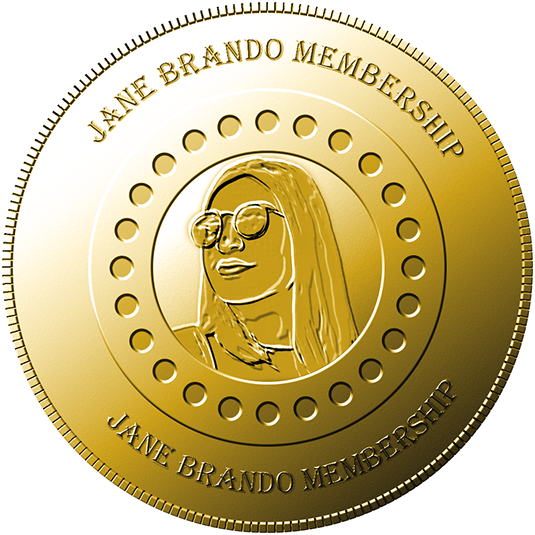
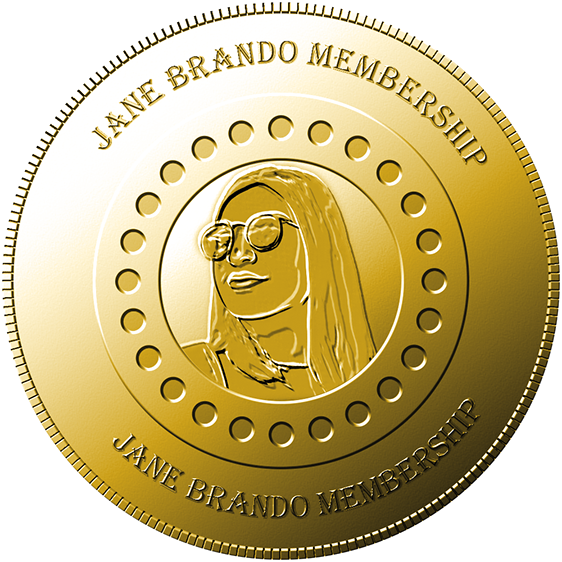
Summary

diff --git a/css/become-the-king_.css b/css/become-the-king_.css
@@ -1,1 +1,1 @@
-.version.become_the_king_{color:#0000F0;background-color:#FE138E;}#muse_css_mq{background-color:#FFFFFF;}#page{z-index:1;min-height:418px;background-image:none;border-width:0px;border-color:#000000;background-color:transparent;padding-top:20px;padding-bottom:62px;width:100%;max-width:960px;margin-left:auto;margin-right:auto;}#u1252-12{z-index:2;display:block;vertical-align:top;position:relative;width:95.84%;margin-left:2.09%;}#pu1278{z-index:68;margin-top:11px;width:75%;margin-left:20%;}#u1278{z-index:68;background-color:transparent;position:relative;margin-right:-10000px;width:81.25%;}#u1328{z-index:70;min-height:41px;border-width:0px;border-color:transparent;background-color:transparent;position:relative;margin-right:-10000px;margin-top:163px;width:13.76%;left:86.25%;}#u1249{z-index:62;background-color:transparent;margin-top:11px;position:relative;width:55.73%;margin-left:22.61%;}#buttonu1253{z-index:64;border-color:#787878;background-color:#FFFFFF;border-radius:10px;margin-top:16px;position:relative;width:95.84%;margin-left:2.09%;}#buttonu1253:hover{background-color:#141414;min-height:0px;width:95.84%;margin:16px 0px 0px 2.083333333333333%;}#buttonu1253.ButtonSelected{background-color:#FFFFFF;min-height:0px;width:95.84%;margin:16px 0px 0px 2.083333333333333%;}#u1254{z-index:66;vertical-align:top;position:relative;margin-right:-10000px;width:100%;}#u1254_states{float:left;width:100%;background:transparent url("../images/u1254_states.png?crc=254682640") no-repeat center;background-size:100%;}#buttonu1253:hover #u1254_states{background:transparent url("../images/u1254_states-r.png?crc=314083275") no-repeat center;background-size:100%;}#u1248-14{z-index:14;display:block;vertical-align:top;margin-top:15px;position:relative;width:95.84%;margin-left:2.09%;}#u1373{z-index:71;background-color:transparent;margin-top:16px;position:relative;width:95.94%;margin-left:2.09%;}#u1380-6{z-index:73;display:block;vertical-align:top;position:relative;width:95.94%;margin-left:1.98%;}#u1412{z-index:79;background-color:transparent;margin-top:22px;position:relative;width:53.34%;margin-left:23.34%;}#u1278_img,#u1249_img,#u1373_img,#u1412_img{width:100%;}#u1422-26{z-index:32;display:block;vertical-align:top;margin-top:22px;position:relative;width:95.84%;margin-left:1.98%;}#buttonu1257{z-index:28;border-color:#787878;background-color:#FFFFFF;border-radius:10px;padding-bottom:6px;margin-top:16px;position:relative;width:95.84%;margin-left:1.98%;}#buttonu1257:hover{background-color:#141414;min-height:0px;width:95.84%;margin:16px 0px 0px 1.9791666666666665%;}#u1258{z-index:30;vertical-align:top;position:relative;margin-right:-10000px;margin-top:7px;width:100%;}#u1258_states{float:left;width:100%;background:transparent url("../images/u1258_states.png?crc=254682640") no-repeat center;background-size:100%;}#u1254_states .fluid_height_spacer,#u1258_states .fluid_height_spacer{padding-bottom:7.82608695652174%;}#buttonu1257:hover #u1258_states{background:transparent url("../images/u1258_states-r.png?crc=314083275") no-repeat center;background-size:100%;}#buttonu1255{z-index:58;border-color:#787878;background-color:#FFFFFF;border-radius:10px;padding-bottom:7px;margin-top:16px;position:relative;width:95.84%;margin-left:1.98%;}#buttonu1255:hover{background-color:#141414;min-height:0px;width:95.84%;margin:16px 0px 0px 1.9791666666666665%;}#buttonu1257.ButtonSelected,#buttonu1255.ButtonSelected{background-color:#FFFFFF;min-height:0px;width:95.84%;margin:16px 0px 0px 1.9791666666666665%;}#u1256{z-index:60;vertical-align:top;position:relative;margin-right:-10000px;margin-top:8px;width:100%;}#u1256_states{float:left;width:100%;background:transparent url("../images/u1256_states.png?crc=3859290508") no-repeat center;background-size:100%;}#u1256_states .fluid_height_spacer{padding-bottom:10.434782608695652%;}#buttonu1255:hover #u1256_states{background:transparent url("../images/u1256_states-r.png?crc=3992161837") no-repeat center;background-size:100%;}.css_verticalspacer .verticalspacer{height:calc(100vh - 6055px);}.html{background-color:#000000;}body{position:relative;min-width:320px;}
+.version.become_the_king_{color:#0000ED;background-color:#7EFA2F;}#muse_css_mq{background-color:#FFFFFF;}#page{z-index:1;min-height:417.64999999999964px;background-image:none;border-width:0px;border-color:#000000;background-color:transparent;padding-top:20px;padding-bottom:62.350000000000364px;width:100%;max-width:960px;margin-left:auto;margin-right:auto;}#u1252-12{z-index:2;display:block;vertical-align:top;position:relative;width:95.84%;margin-left:2.09%;}#pu1278{z-index:68;width:75%;margin-left:20%;}#u1278{z-index:68;background-color:transparent;position:relative;margin-right:-10000px;width:81.25%;}#u1328{z-index:70;min-height:41px;border-width:0px;border-color:transparent;background-color:transparent;position:relative;margin-right:-10000px;margin-top:174px;width:13.76%;left:86.25%;}#u1249{z-index:62;background-color:transparent;margin-top:4px;position:relative;width:58.55%;margin-left:20.73%;}#buttonu1253{z-index:64;border-color:#787878;background-color:#FFFFFF;border-radius:10px;margin-top:11px;position:relative;width:95.84%;margin-left:1.98%;}#buttonu1253:hover{background-color:#141414;min-height:0px;width:95.84%;margin:11px 0px 0px 1.9791666666666665%;}#buttonu1253.ButtonSelected{background-color:#FFFFFF;min-height:0px;width:95.84%;margin:11px 0px 0px 1.9791666666666665%;}#u1254{z-index:66;vertical-align:top;position:relative;margin-right:-10000px;width:100%;}#u1254_states{float:left;width:100%;background:transparent url("../images/u1254_states.png?crc=254682640") no-repeat center;background-size:100%;}#buttonu1253:hover #u1254_states{background:transparent url("../images/u1254_states-r.png?crc=314083275") no-repeat center;background-size:100%;}#u1248-14{z-index:14;display:block;vertical-align:top;margin-top:11px;position:relative;width:95.84%;margin-left:2.09%;}#u1373{z-index:71;background-color:transparent;margin-top:16px;position:relative;width:95.94%;margin-left:2.09%;}#u1380-6{z-index:73;display:block;vertical-align:top;position:relative;width:95.94%;margin-left:1.98%;}#u1412{z-index:79;background-color:transparent;margin-top:14px;position:relative;width:69.07%;margin-left:15.42%;}#u1278_img,#u1249_img,#u1373_img,#u1412_img{width:100%;}#u1422-26{z-index:32;display:block;vertical-align:top;margin-top:14px;position:relative;width:95.84%;margin-left:2.09%;}#buttonu1257{z-index:28;border-color:#787878;background-color:#FFFFFF;border-radius:10px;padding-bottom:6px;margin-top:19px;position:relative;width:95.73%;margin-left:2.09%;}#buttonu1257:hover{background-color:#141414;min-height:0px;width:95.73%;margin:19px 0px 0px 2.083333333333333%;}#u1258{z-index:30;vertical-align:top;position:relative;margin-right:-10000px;margin-top:7px;width:100.11%;}#u1258_states{float:left;width:100%;background:transparent url("../images/u1258_states.png?crc=254682640") no-repeat center;background-size:100%;}#u1254_states .fluid_height_spacer,#u1258_states .fluid_height_spacer{padding-bottom:7.82608695652174%;}#buttonu1257:hover #u1258_states{background:transparent url("../images/u1258_states-r.png?crc=314083275") no-repeat center;background-size:100%;}#buttonu1255{z-index:58;border-color:#787878;background-color:#FFFFFF;border-radius:10px;padding-bottom:7px;margin-top:19px;position:relative;width:95.73%;margin-left:2.09%;}#buttonu1255:hover{background-color:#141414;min-height:0px;width:95.73%;margin:19px 0px 0px 2.083333333333333%;}#buttonu1257.ButtonSelected,#buttonu1255.ButtonSelected{background-color:#FFFFFF;min-height:0px;width:95.73%;margin:19px 0px 0px 2.083333333333333%;}#u1256{z-index:60;vertical-align:top;position:relative;margin-right:-10000px;margin-top:8px;width:100.11%;}#u1256_states{float:left;width:100%;background:transparent url("../images/u1256_states.png?crc=3859290508") no-repeat center;background-size:100%;}#u1256_states .fluid_height_spacer{padding-bottom:10.434782608695652%;}#buttonu1255:hover #u1256_states{background:transparent url("../images/u1256_states-r.png?crc=3992161837") no-repeat center;background-size:100%;}.css_verticalspacer .verticalspacer{height:calc(100vh - 6197px);}.html{background-color:#000000;}body{position:relative;min-width:320px;}

diff --git a/become-the-king!.html b/become-the-king!.html
@@ -17,7 +17,7 @@ if(typeof Muse == "undefined") window.Muse = {}; window.Muse.assets = {"required
   <title>Become the King!</title>
   <!-- CSS -->
   <link rel="stylesheet" type="text/css" href="css/site_global.css?crc=444006867"/>
-  <link rel="stylesheet" type="text/css" href="css/become-the-king_.css?crc=4043182990" id="pagesheet"/>
+  <link rel="stylesheet" type="text/css" href="css/become-the-king_.css?crc=3984521775" id="pagesheet"/>
    </head>
  <body>
 
@@ -50,7 +50,7 @@ src="https://www.facebook.com/tr?id=763399587639667&ev=PageView&noscript=1"
     </div>
    </div>
    <div class="clip_frame colelem" id="u1249"><!-- image -->
-    <img class="block" id="u1249_img" src="images/coin%20maker%20final.png?crc=3971675616" alt="" data-heightwidthratio="1" data-image-width="535" data-image-height="535"/>
+    <img class="block" id="u1249_img" src="images/coin%20maker%20final.png?crc=236308298" alt="" data-heightwidthratio="1" data-image-width="562" data-image-height="562"/>
    </div>
    <div class="pointer_cursor Button rounded-corners clearfix colelem" id="buttonu1253" data-visibility="changed" style="visibility:hidden"><!-- container box -->
     <a class="block" href="https://www.paypal.com/cgi-bin/webscr?cmd=_s-xclick&amp;hosted_button_id=79W8Z6GJQVE2J"><!-- Block link tag --></a>
@@ -62,7 +62,7 @@ src="https://www.facebook.com/tr?id=763399587639667&ev=PageView&noscript=1"
    </div>
    <img class="colelem" id="u1380-6" alt="And every month's new book, you will also get the right to join my Facebook group!" src="images/u1380-6.png?crc=3977861686" data-image-width="921"/><!-- rasterized frame -->
    <div class="clip_frame colelem" id="u1412"><!-- image -->
-    <img class="block" id="u1412_img" src="images/unnamed.png?crc=494952590" alt="" data-heightwidthratio="1" data-image-width="512" data-image-height="512"/>
+    <img class="block" id="u1412_img" src="images/unnamed.png?crc=494952590" alt="" data-heightwidthratio="1" data-image-width="663" data-image-height="663"/>
    </div>
    <img class="colelem" id="u1422-26" alt="In my Facebook group you will get 1. The right to watch the new book plot first I will post some of my new book plot in Facebook group for king member to watch it first and also when book is release I will post article to notice you! Make sure you can watch the new book as soon as possible! 2. The right to watch book Cover and draft first also the right to vote for which cover you want to be the main book cover! I will post the cover draft in the Facebook group and you can vote for the cover draft you like the winner will be the main book cover! 3. The right to watch my postscript I will post article in the Facebook group to let you know how I write the book story or how I feel about the story or the next book's progress some interesting things happen in my life! 4. Chance to meet tons of reader just like you! You can discuss the book content in this group with other reader in the article comment section or something you want to say about the story or something happened in your life. If you want to keep contact with someone, you can message to the one you want to contact then hang out to each other!" src="images/u1422-26.png?crc=277578995" data-image-width="920"/><!-- rasterized frame -->
    <div class="pointer_cursor Button rounded-corners clearfix colelem" id="buttonu1257" data-visibility="changed" style="visibility:hidden"><!-- container box -->
@@ -73,7 +73,7 @@ src="https://www.facebook.com/tr?id=763399587639667&ev=PageView&noscript=1"
     <a class="block" href="https://www.paypal.com/cgi-bin/webscr?cmd=_s-xclick&amp;hosted_button_id=UM3VBLDYZYJME"><!-- Block link tag --></a>
     <a class="nonblock nontext grpelem" id="u1256" href="https://www.paypal.com/cgi-bin/webscr?cmd=_s-xclick&amp;hosted_button_id=UM3VBLDYZYJME"><!-- state-based BG images --><div id="u1256_states"><img alt="No, thanks! I think normal membership is good enough." src="images/blank.gif?crc=4208392903"/><div class="fluid_height_spacer"></div></div></a>
    </div>
-   <div class="verticalspacer" data-offset-top="5995" data-content-above-spacer="5994" data-content-below-spacer="61" data-sizePolicy="fixed" data-pintopage="page_fixedLeft"></div>
+   <div class="verticalspacer" data-offset-top="6136" data-content-above-spacer="6136" data-content-below-spacer="61" data-sizePolicy="fixed" data-pintopage="page_fixedLeft"></div>
   </div>
   <div class="preload_images">
    <img class="preload" src="images/u1254_states-r.png?crc=314083275" alt=""/>

diff --git a/the-special-offer-to-join-my-membership!.html b/the-special-offer-to-join-my-membership!.html
@@ -26,7 +26,7 @@ if(typeof Muse == "undefined") window.Muse = {}; window.Muse.assets = {"required
    <img class="colelem" id="u377-4" alt="Join our membership for just $0.99/month!" src="images/u377-4.png?crc=248640405" data-image-width="920"/><!-- rasterized frame -->
    <div class="clearfix colelem" id="pu1230"><!-- group -->
     <div class="clip_frame grpelem" id="u1230"><!-- image -->
-     <img class="block" id="u1230_img" src="images/coin%20maker%20final.png?crc=3971675616" alt="" data-heightwidthratio="1" data-image-width="535" data-image-height="535"/>
+     <img class="block" id="u1230_img" src="images/coin%20maker%20final.png?crc=236308298" alt="" data-heightwidthratio="1" data-image-width="535" data-image-height="535"/>
     </div>
     <div class="grpelem" id="u1352"><!-- custom html -->
      <!-- Facebook Pixel Code -->
